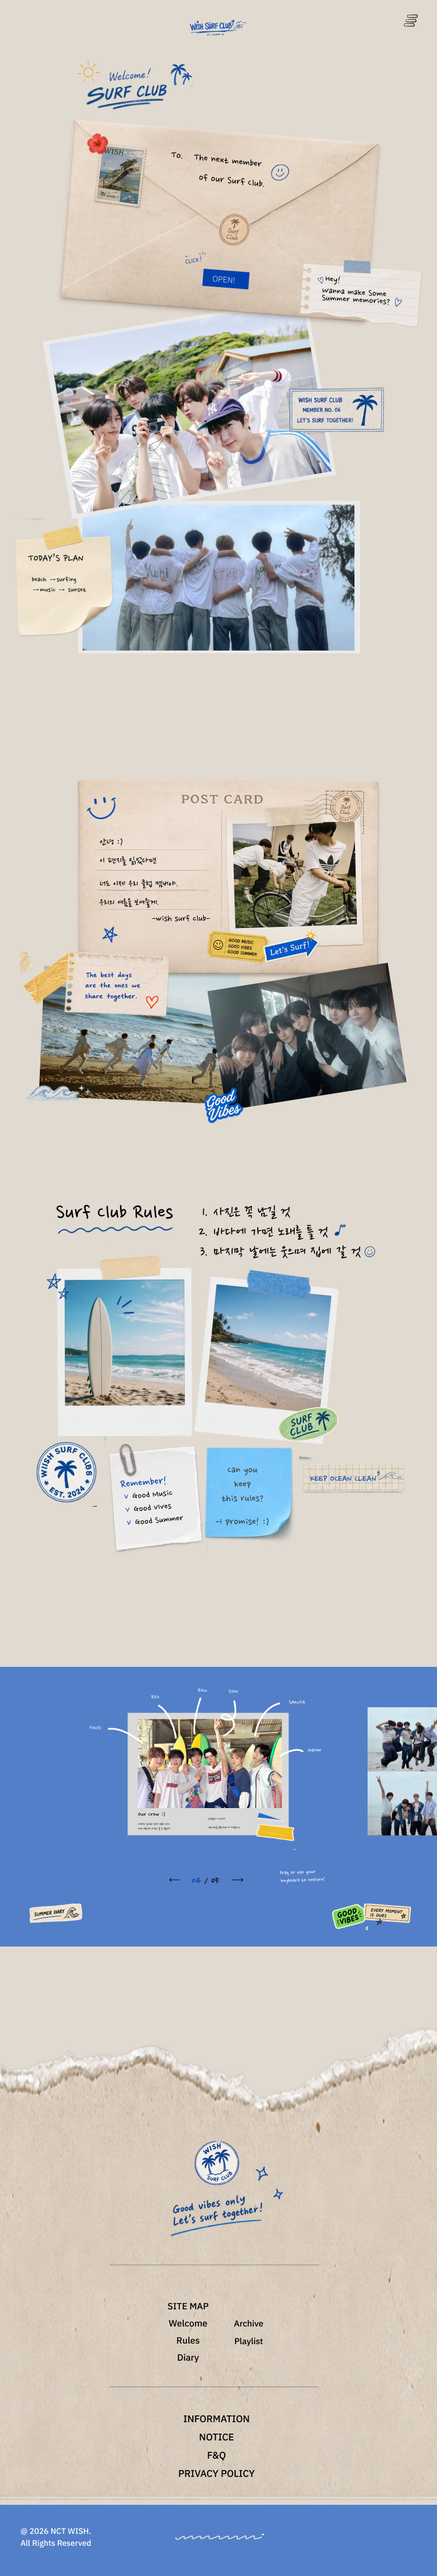
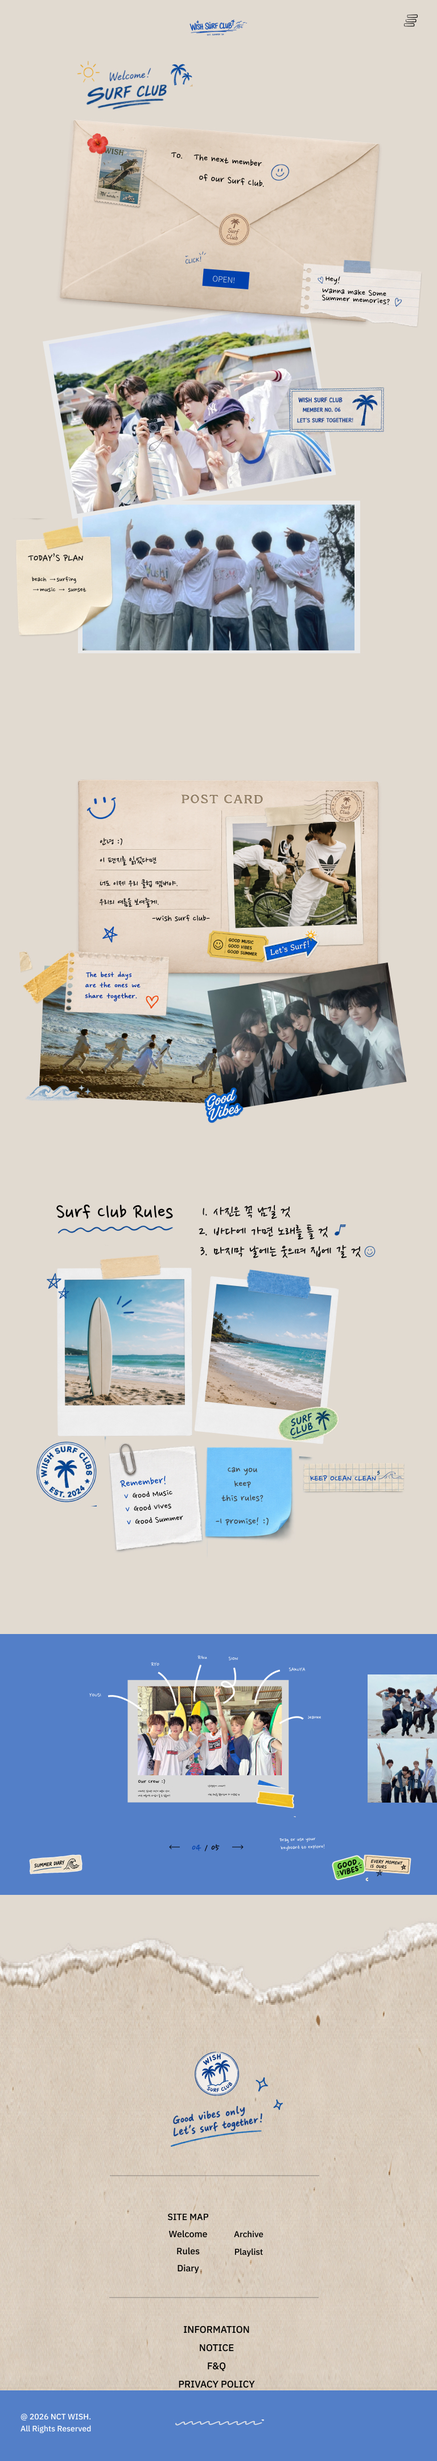
w_surf 추가

diff --git a/assets/css/responsive.css b/assets/css/responsive.css
@@ -156,17 +156,16 @@
     width: 55%;
   }
 }
-  @media (max-width: 480px) {
-    #about_m .contain {
-      width: 43%;
-      height: 30%;
-      background-position: contain;
-    }
-    .swiper-slide-m {
-      padding: 5px 5px;
-    }
-
+@media (max-width: 480px) {
+  #about_m .contain {
+    width: 43%;
+    height: 30%;
+    background-position: contain;
   }
+  .swiper-slide-m {
+    padding: 5px 5px;
+  }
+}
 
 /* profile */
 @media (max-width: 960px) {
@@ -523,25 +522,41 @@
 }
 /* SUB3 */
 @media (max-width: 1470px) {
-  #W_TeamProject .container .work2_left, #w_surf .container .work2_left {width: 70%;}
-
+  #W_TeamProject .container .work2_left {
+    width: 70%;
+  }
+  #w_surf .container .work2_left {
+    width: 55%;
+  }
 }
 @media (max-width: 1060px) {
-  #W_TeamProject .container .work2_left, #w_surf .container .work2_left {width: 100%;}
-  .work2_left {width: 70%;}
-
+  #W_TeamProject .container .work2_left {
+    width: 100%;
+  }
+  #w_surf .container .work2_left {
+    width: 55%;
+  }
+  .work2_left {
+    width: 70%;
+  }
 }
 @media (max-width: 830px) {
-  #W_TeamProject .container, #w_surf .container {
+  #W_TeamProject .container,
+  #w_surf .container {
     flex-direction: column-reverse;
   }
   #W_TeamProject2 .container,
+  #w_surf2 .container,
   #W_design .container,
   #W_rebuild1 .container,
   #W_rebuild2 .container {
     flex-direction: column;
   }
-  #W_TeamProject .container .work2_left, #w_surf .container .work2_left {
+  #W_TeamProject .container .work2_left,
+  #w_surf .container .work2_left,
+  #W_design .work2_left,
+  #W_rebuild1 .work2_left,
+  #W_rebuild2 .work2_left {
     width: 100%;
   }
   #W_TeamProject .work2_right,
@@ -554,8 +569,19 @@
   .work2_wrap .link {
     display: none;
   }
-  #W_TeamProject .container .work2_left .link, #w_surf .container .work2_left .link {
+  #W_TeamProject .container .work2_left .link,
+  #w_surf .container .work2_left .link {
     display: block;
+  }
+  #W_TeamProject .work2_wrap .work2_right a,
+  #w_surf .work2_wrap .work2_right a,
+  #W_design .work2_wrap .work2_right a,
+  #W_rebuild .work2_wrap .work2_right a,
+  #W_rebuild2 .work2_wrap .work2_right a {
+    text-align: center;
+  }
+  .work2_wrap .work2_right a img {
+    width: 90%;
   }
   .nfnl_info,
   .nfnl_img {
@@ -563,6 +589,9 @@
   }
   .respon {
     justify-content: center;
+  }
+  #w_surf .work2_wrap {
+    width: 100%;
   }
 }
 

diff --git a/assets/css/style.css b/assets/css/style.css
@@ -312,11 +312,11 @@ body.main #header.show {
   font-weight: 300;
   transition: all 0.3s;
 }
-.lnb ul li a:hover, .lnb ul li a.active {
+.lnb ul li a:hover,
+.lnb ul li a.active {
   color: #e9dfd1;
   filter: drop-shadow(0 0 6px rgba(255, 175, 63, 0.8));
 }
-
 
 /* stage */
 #stage {
@@ -1648,6 +1648,7 @@ img.omadeng_img {
 #W_TeamProject,
 #W_TeamProject2,
 #w_surf,
+#w_surf2,
 #W_design,
 #W_rebuild1,
 #W_rebuild2 {
@@ -1660,13 +1661,15 @@ img.omadeng_img {
 #W_TeamProject .container,
 #W_TeamProject2 .container,
 #w_surf .container,
+#w_surf .container,
 #W_design .container,
 #W_rebuild1 .container,
 #W_rebuild2 .container {
   display: flex;
   justify-content: space-between;
 }
-#W_TeamProject2 .container {
+#W_TeamProject2 .container,
+#w_surf2 .container {
   display: flex;
   justify-content: space-between;
 }
@@ -1675,15 +1678,34 @@ img.omadeng_img {
   justify-content: space-between;
   align-items: center;
 }
-#W_TeamProject2 .work2_title {
+#W_TeamProject2 .work2_title,
+#w_surf2 .work2_title {
   border: none;
 }
-#W_TeamProject2 .work2_title p {
+#W_TeamProject2 .work2_title p,
+#w_surf2 .work2_title p {
   font-size: 17px;
 }
-#W_TeamProject .container .work2_left .link, #w_surf .container .work2_left .link {
+#w_surf2 .container .nfnl_img img:nth-child(1) {
+  width: 32%;
+  height: 88%;
+}
+#w_surf2 .container .nfnl_img img:nth-child(2) {
+  width: 22%;
+  height: 88%;
+}
+#w_surf2 .container .nfnl_img img:nth-child(3) {
+  width: 14%;
+  height: 88%;
+}
+#W_TeamProject .container .work2_left .link,
+#w_surf .container .work2_left .link {
   display: none;
 }
+#w_surf .work2_wrap {
+  width: 53%;
+}
+
 .nfnl_img {
   width: 60%;
   display: flex;
